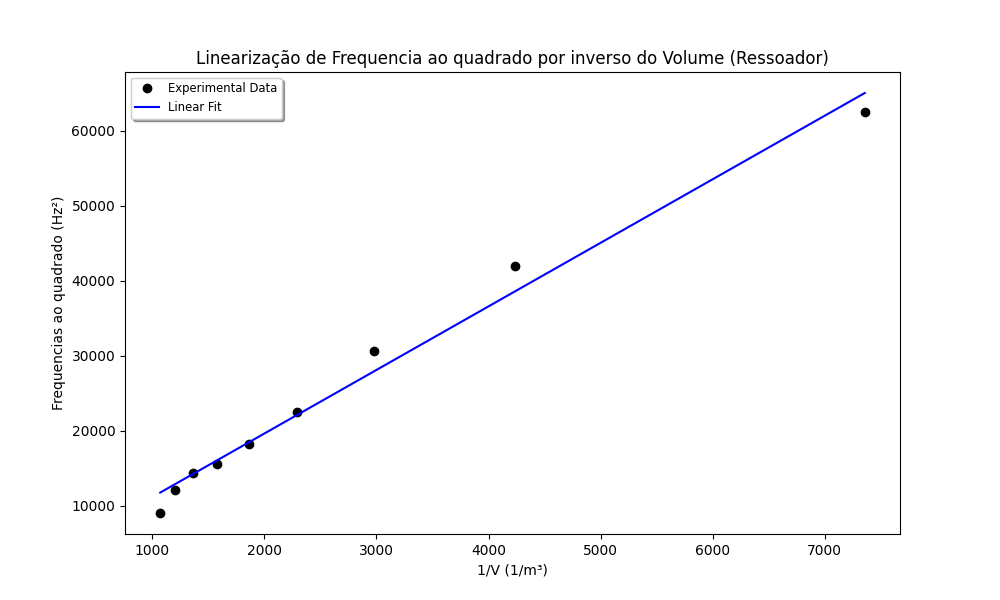
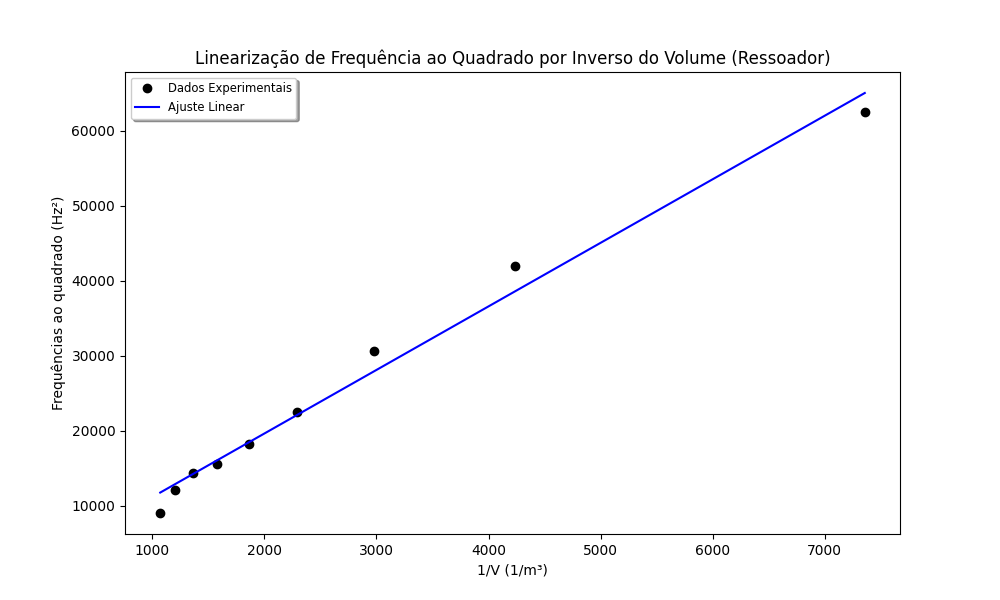
versao final ressoador

Changed region(s): [[0.155, 0.09, 0.837, 0.21]]

diff --git a/Ressoador/ressoador.py b/Ressoador/ressoador.py
@@ -2,41 +2,46 @@ import numpy as np
 import pandas as pd
 import matplotlib.pyplot as plt
 from scipy.signal import find_peaks
-
 from sklearn.model_selection import train_test_split
 from sklearn.linear_model import LinearRegression
 from sklearn.metrics import mean_squared_error, r2_score
 
+# Carregar os dados
 data = pd.read_csv(r"C:\Users\bruno\OneDrive\Faculdade\F259 - Experimental II\Experimento 3 - Tubos\Ressoador\Ressoador.csv.csv")
 
-freq_quadrada = data["Frequencia encontrada (usar essa)"]**2. #Eixo X
+# Pré-processamento dos dados
+freq_quadrada = data["Frequencia encontrada (usar essa)"]**2  # Eixo X (Frequência ao quadrado)
 freq_quadrada = freq_quadrada.dropna()
-freq_quadrada = freq_quadrada.drop(freq_quadrada.index[-1])
-inverso_volume = (1/(data["volume"].str.replace(",",".").apply(lambda x: float(x)))).dropna()
-inverso_volume = inverso_volume.drop(inverso_volume.index[-1])
+freq_quadrada = freq_quadrada.drop(freq_quadrada.index[-1])  # Remove último elemento
+
+inverso_volume = (1/(data["volume"].str.replace(",", ".").apply(lambda x: float(x)))).dropna()  # Eixo Y (1/Volume)
+inverso_volume = inverso_volume.drop(inverso_volume.index[-1])  # Remove último elemento
+
+# Verificação dos dados
 print(freq_quadrada, "\n", inverso_volume)
 
-#Matplotlib 
+# Plotar os dados experimentais
 plt.rcParams['figure.figsize'] = [10, 6]
-plt.plot(inverso_volume,freq_quadrada,"o", label = "Experimental Data", color = "black")
+plt.plot(inverso_volume, freq_quadrada, "o", label="Dados Experimentais", color="black")
 plt.xlabel("1/V (1/m³)")
-plt.ylabel("Frequencias ao quadrado (Hz²)")
-plt.title("Linearização de Frequencia ao quadrado por inverso do Volume (Ressoador)") 
+plt.ylabel("Frequências ao quadrado (Hz²)")
+plt.title("Linearização de Frequência ao Quadrado por Inverso do Volume (Ressoador)")
 
-
-#sklearn - Gera a Regressão Linear associada aos dados de aceleração de Diferença de massa obtidos
+# Aplicar Regressão Linear
 x = pd.DataFrame(inverso_volume)
 y = freq_quadrada
 model = LinearRegression()
-model.fit(x,y)
-x_range = np.linspace(x.min(),x.max(),100).reshape(-1,1)
+model.fit(x, y)
+
+# Gerar valores preditos para o ajuste linear
+x_range = np.linspace(x.min(), x.max(), 100).reshape(-1, 1)  # Gera um intervalo para o ajuste
 y_pred = model.predict(x_range)
 
-#Adiciona linearização ao gráfico
-plt.plot(x_range,y_pred,label = "Linear Fit", color= "blue")
-plt.legend(loc = "upper left", fontsize = "small", shadow = True)
+# Plotar o ajuste linear
+plt.plot(x_range, y_pred, label="Ajuste Linear", color="blue")
+plt.legend(loc="upper left", fontsize="small", shadow=True)
 
-#Cálcula as incertezas associadas a cada parâmetro, retornadas na variável Incertezas.
+# Cálculo das incertezas
 y_test_pred = model.predict(x)
 residuals = y - y_test_pred
 n = len(y)
@@ -46,13 +51,14 @@ x_design = np.hstack([np.ones((x.shape[0], 1)), x])
 cov_matrix = residual_variance * np.linalg.inv(x_design.T @ x_design)
 incerteza = np.sqrt(np.diag(cov_matrix))
 
+# Coeficientes da reta ajustada
 a = model.coef_[0]
 b = model.intercept_
 
-incerteza[0] = round(incerteza[0],5)
-incerteza[1] = round(incerteza[1],5)
+# Exibir os coeficientes com incertezas
+incerteza[0] = round(incerteza[0], 5)
+incerteza[1] = round(incerteza[1], 5)
+print(f"Freq² = ({a:.3f}±{incerteza[0]})*Inv_Volume + ({b:.3f}±{incerteza[1]})")
 
-print(f"Freq² = ({a:.3f}±{incerteza[0]})*Inv_Volume")
-
+# Exibir o gráfico
 plt.show()
-
